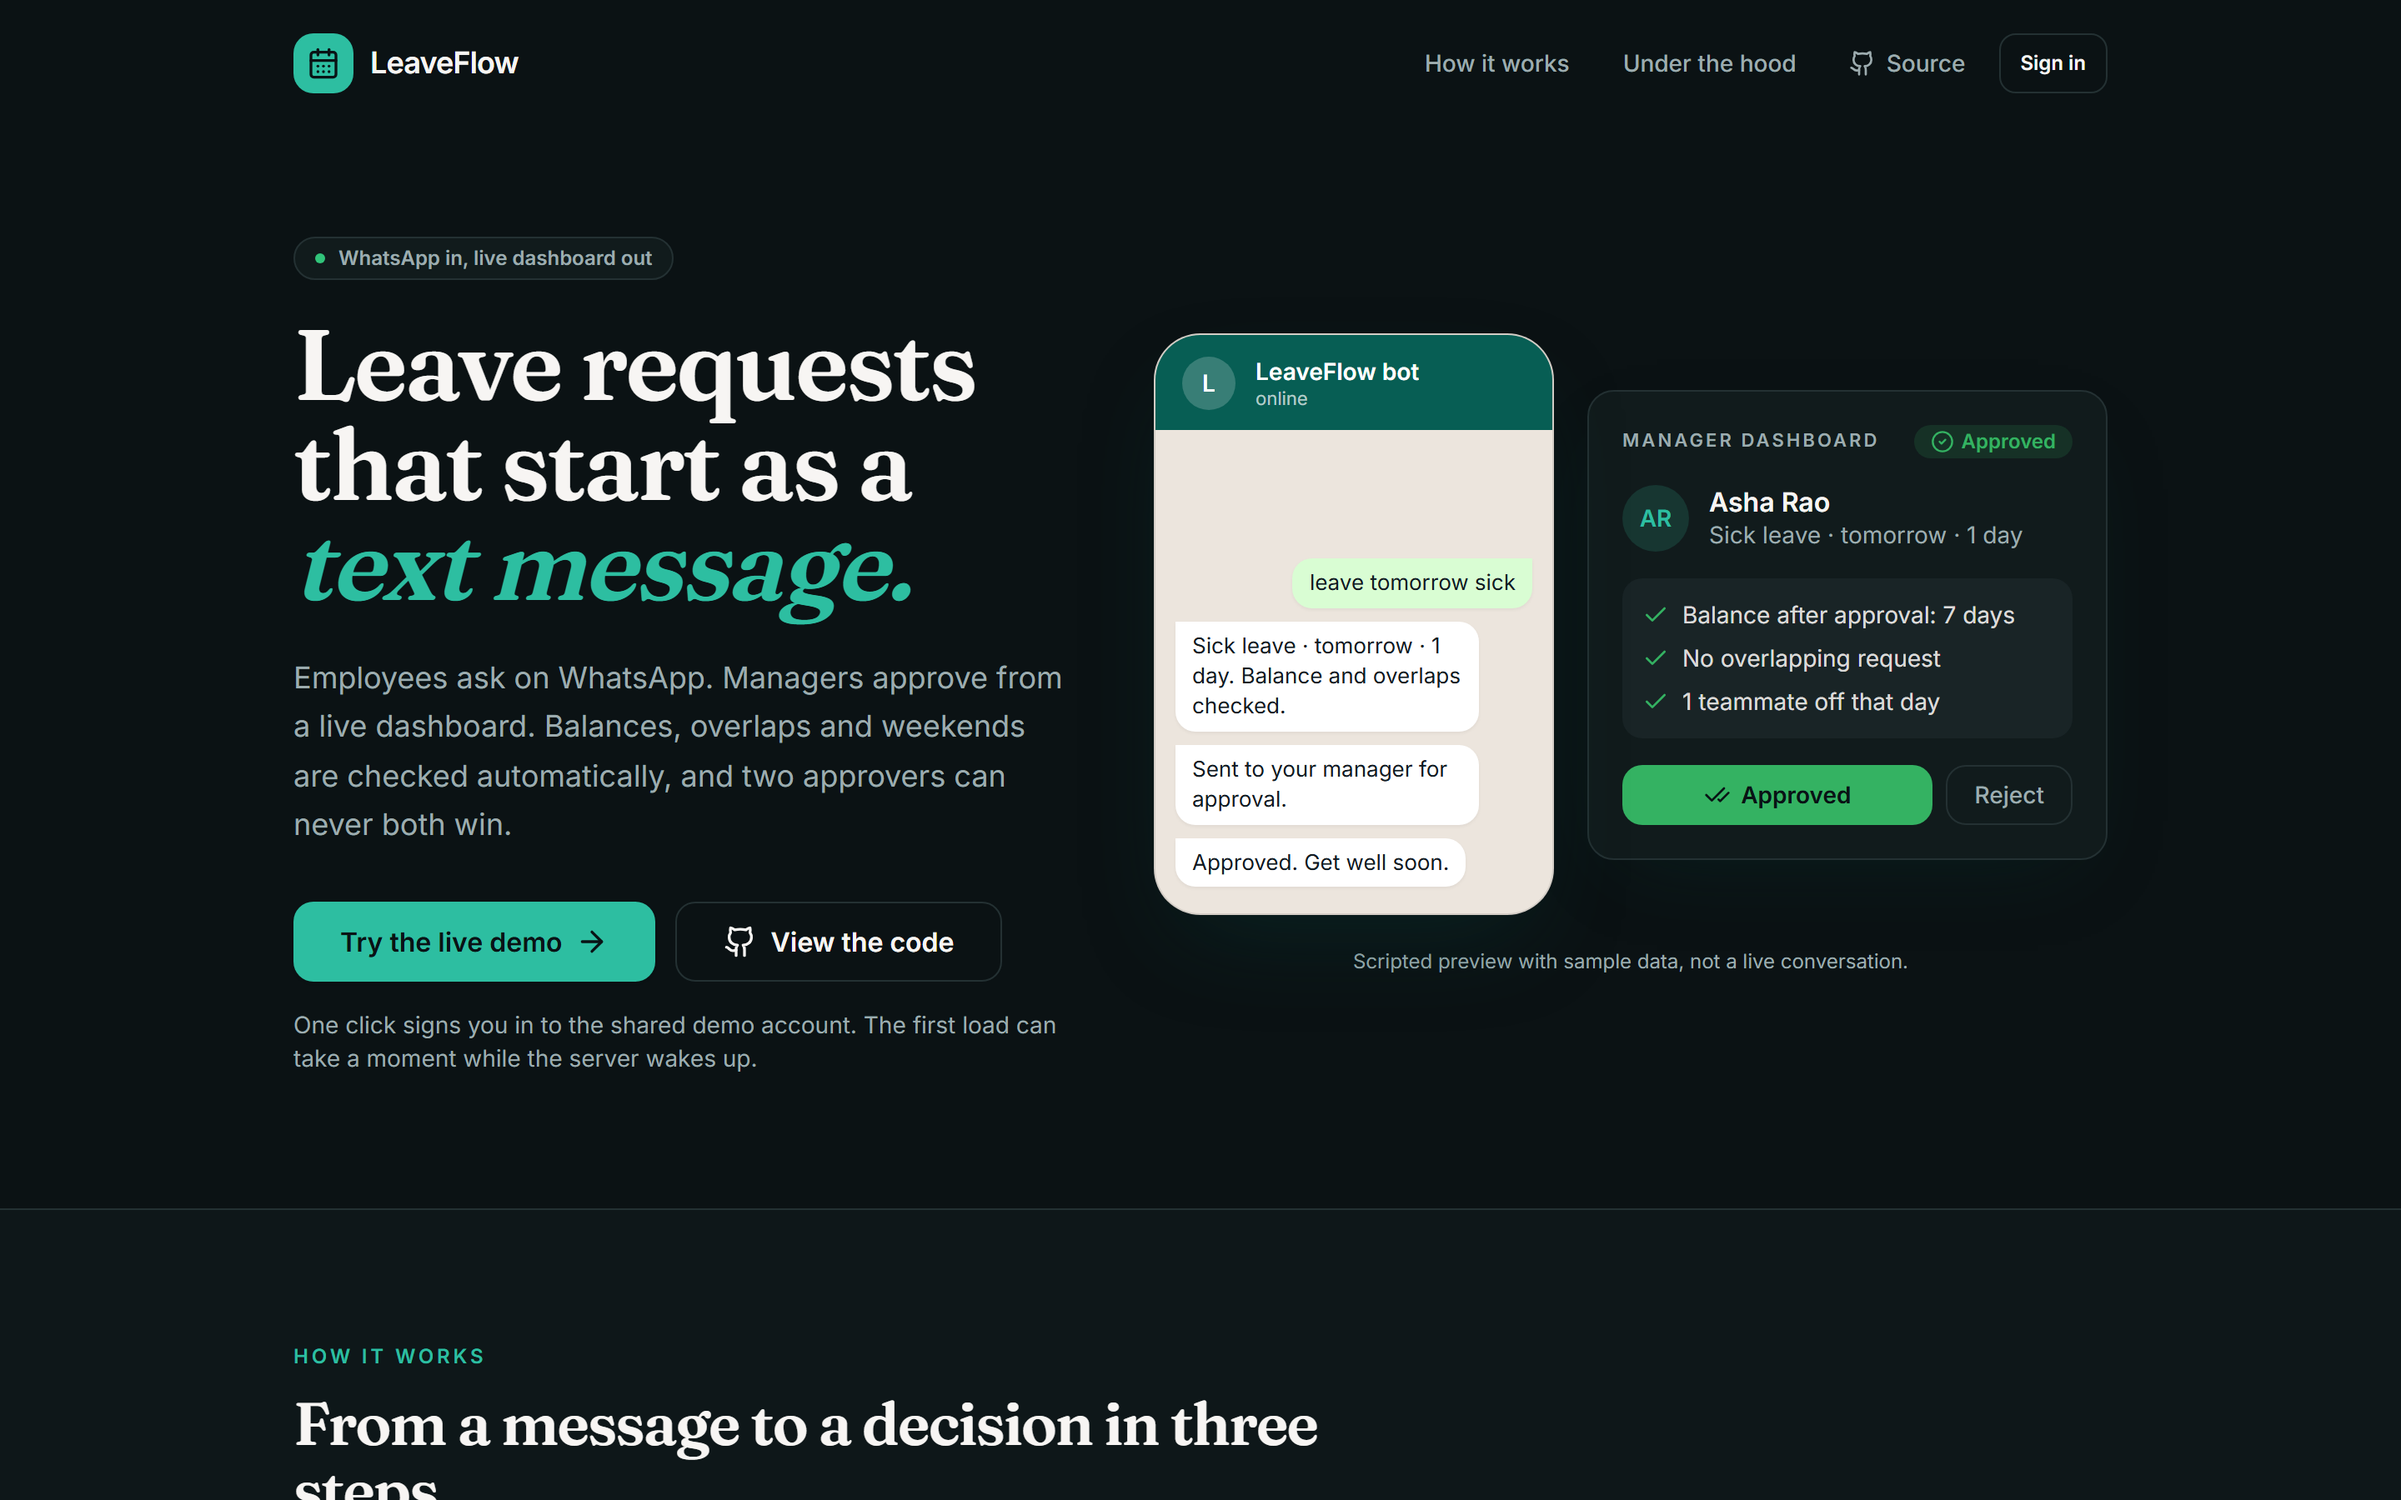
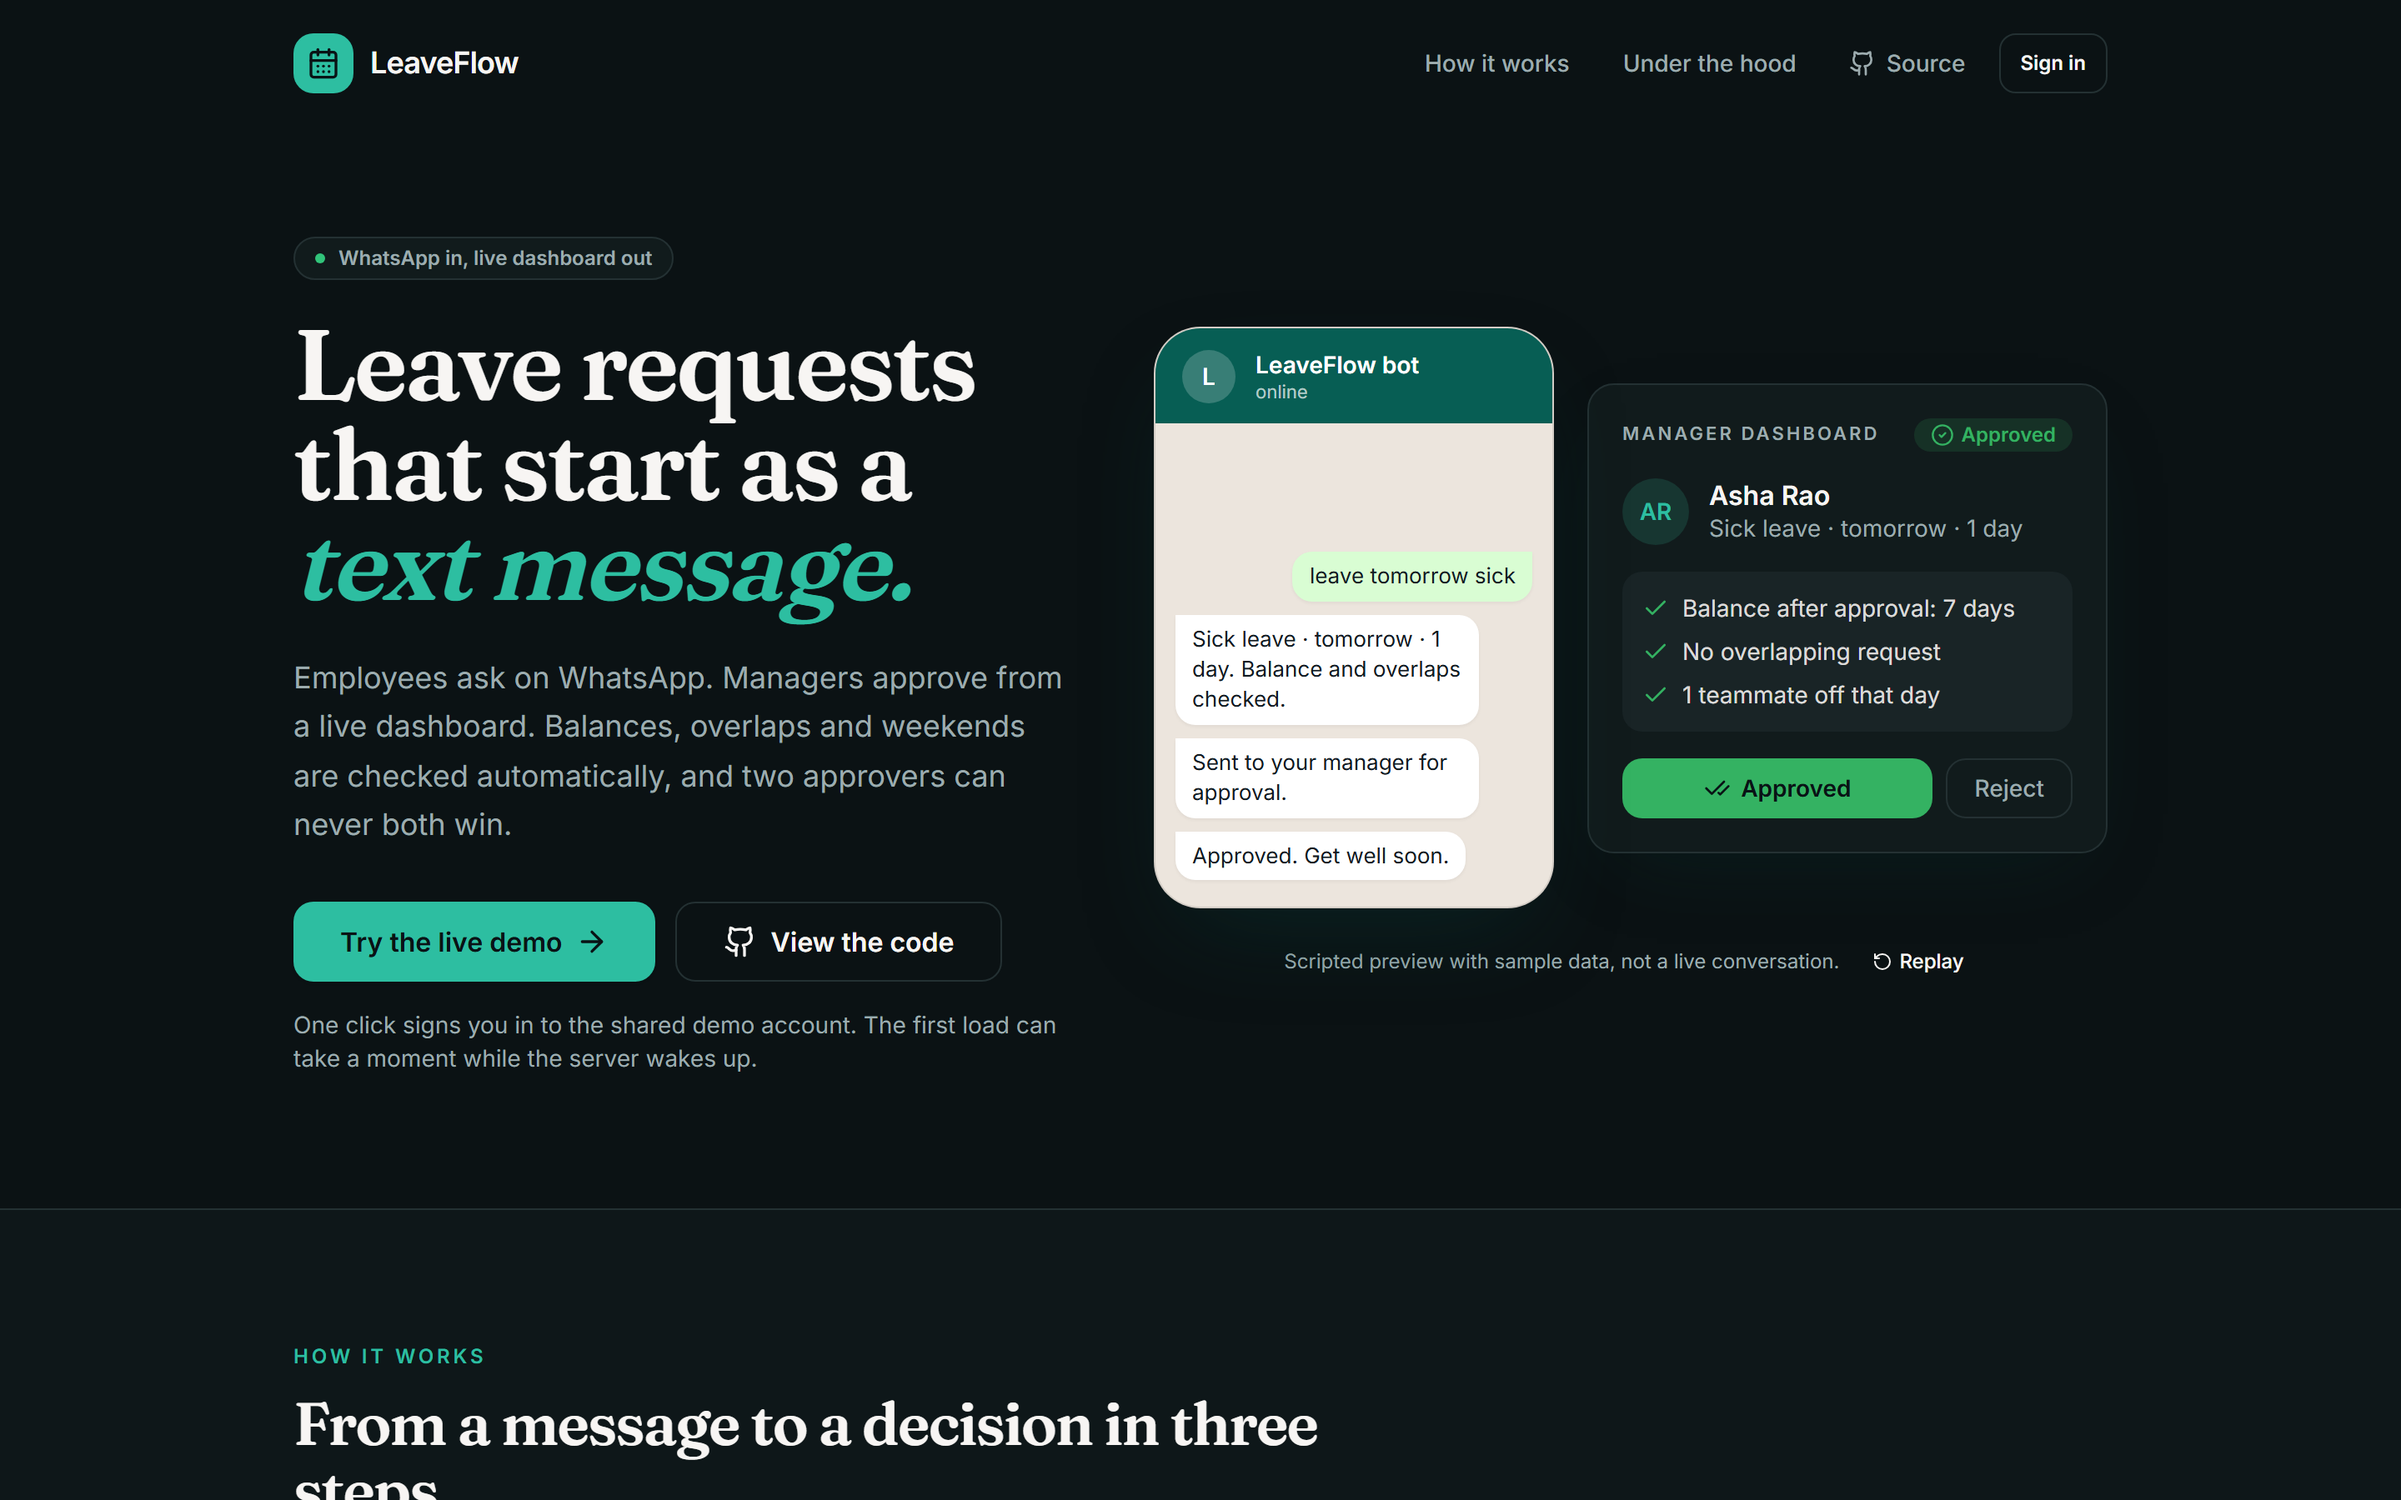
docs: README for the new UI, demo and tests; new screenshots

diff --git a/README.md b/README.md
@@ -13,19 +13,33 @@ Leave management where employees apply over WhatsApp ("leave tomorrow sick") and
 |---|---|
 | ![Landing page, light theme](docs/screenshots/landing-light.png) | ![Landing page, dark theme](docs/screenshots/landing-dark.png) |
 
-| Dashboard | Requests (dark) | Calendar |
+| Approval inbox (light) | Approval inbox (dark) |
+|---|---|
+| ![Approval inbox with checks, light theme](docs/screenshots/inbox-light.png) | ![Approval inbox with checks, dark theme](docs/screenshots/inbox-dark.png) |
+
+| Who's away | Dashboard | Mobile request sheet |
 |---|---|---|
-| ![Dashboard overview](docs/screenshots/dashboard-light.png) | ![Pending requests, dark theme](docs/screenshots/requests-dark.png) | ![Team leave calendar](docs/screenshots/calendar-light.png) |
+| ![Team timeline](docs/screenshots/timeline-light.png) | ![Dashboard overview](docs/screenshots/dashboard-light.png) | ![Request detail on a phone](docs/screenshots/inbox-mobile-detail.png) |
 
 The landing-page chat is a scripted animation, not a live conversation. The dashboard screenshots use the data from `backend/scripts/seed_demo.py`.
 
 ## Features
 
 - Apply, cancel, approve and reject leave through a WhatsApp bot (rule-based parser, optional LLM fallback).
-- Manager/HR dashboard with pending requests, history and a calendar view; status changes are pushed over WebSockets.
+- **Approval inbox** for managers, HR and admins: a queue plus a detail panel, with keyboard shortcuts (`J`/`K` move, `A` approve, `R` reject). A **Checks** panel shows the requester's remaining balance, which teammates are already off, and short notice. If someone else decides first, you get a clear "someone got there first" message.
+- **Who's away**: a people-by-day timeline of approved and pending leave, with holidays and weekends left out of leave days.
+- **Request history** per request (who created, approved or rejected it, and when), read from the audit log.
+- Live updates over WebSockets; the header shows whether the connection is actually up.
 - Validation: date range, weekends and holidays excluded, overlapping requests, balance check.
-- Roles: worker, manager, HR, admin. Managers can only act on their own team's requests.
+- Roles: worker, manager, HR, admin. Managers can only act on their own team's requests and balances.
 - Audit log entry for every create / approve / reject / cancel.
+- Light and dark themes. The landing page and the approval inbox are checked on a phone-sized screen.
+
+## Demo
+
+The sign-in page has a **Fill Demo Credentials** button for the shared demo account, and the landing page's **Try the live demo** link opens sign-in with those credentials already filled in.
+
+Inside the dashboard, the demo account sees **Restart demo** in the sidebar. It deletes the demo team's data (the fixed set of fake people from `backend/scripts/seed_demo.py` and their requests, balances and audit entries) and seeds it again, so the demo always starts from the beginning. It never touches anyone else's data. The same reset is available from the command line: `docker compose exec backend python scripts/seed_demo.py --reset`.
 
 ## Architecture
 
@@ -62,8 +76,9 @@ These are tested against real PostgreSQL in [tests/test_concurrency.py](backend/
 | Team-scoped approvals | A manager can only approve/reject requests of their own team; HR/admin can act on any | `_ensure_approver_access` in [leave.py](backend/app/services/leave.py) | `test_manager_cannot_approve_another_manager_team` |
 | Session auth | JWT in an HttpOnly cookie (`Secure` + `SameSite=None` in production); bearer header also accepted | [routes/auth.py](backend/app/routes/auth.py) | [test_api_routes.py](backend/tests/test_api_routes.py) (local cookie flags only) |
 | Webhook authenticity | HMAC-SHA256 check of `X-Hub-Signature-256` | `verify_whatsapp_signature` in [auth.py](backend/app/auth.py) | [test_access_control.py](backend/tests/test_access_control.py) |
-| Rate limiting | slowapi: login/register 5 per minute, webhook 20 per second (per IP) | [limiter.py](backend/app/limiter.py), [routes/](backend/app/routes) | none (disabled in the test client) |
-| Audit trail | `AuditLog` row for create/approve/reject/cancel | `_log_action` in [leave.py](backend/app/services/leave.py) | `test_concurrent_approvals_only_one_wins` |
+| Rate limiting | slowapi: login/register and demo reset 5 per minute, webhook 20 per second (per IP) | [limiter.py](backend/app/limiter.py), [routes/](backend/app/routes) | none (disabled in the test client) |
+| Audit trail | `AuditLog` row for create/approve/reject/cancel, readable per request at `GET /leave/{id}/audit` (same access rule as the request) | `_log_action` in [leave.py](backend/app/services/leave.py) | `test_concurrent_approvals_only_one_wins`, [test_audit_and_carry_forward.py](backend/tests/test_audit_and_carry_forward.py) |
+| Demo reset | `POST /demo/reset` only works for the demo account and only deletes the demo team's data; overlapping resets are serialized with a Postgres advisory lock | [routes/demo.py](backend/app/routes/demo.py), [demo_seed.py](backend/app/services/demo_seed.py) | [test_demo_reset.py](backend/tests/test_demo_reset.py), [test_demo_reset_postgres.py](backend/tests/test_demo_reset_postgres.py) |
 
 ## Run it
 
@@ -91,14 +106,24 @@ export TEST_POSTGRES_URL=postgresql+asyncpg://postgres:postgres@localhost:5432/l
 pytest tests/ -v --cov=app
 ```
 
-Last run: **65 tests passed** with PostgreSQL (59 passed and 6 skipped without it), **49% line coverage** of `backend/app`. CI runs the full set against a PostgreSQL service container and then builds both Docker images ([workflow](.github/workflows/ci.yml)). The dashboard has no automated tests.
+Last run: **83 tests passed** with PostgreSQL (75 passed and 8 skipped without it), **53% line coverage** of `backend/app`. CI runs the full set against a PostgreSQL service container and then builds both Docker images ([workflow](.github/workflows/ci.yml)).
+
+The dashboard has a small browser test suite ([Playwright](dashboard/e2e/demo.spec.ts): landing page, demo sign-in, inbox shortcuts, audit trail, timeline, restart). It needs the app running with demo data and **resets the demo data**, so it is not part of CI:
+
+```bash
+docker compose up --build -d db backend
+docker compose exec backend python scripts/seed_demo.py
+cd dashboard && npm ci && npm run build && npm start     # in one terminal
+npx playwright install chromium && npm run test:e2e        # in another
+```
 
 ## Known limitations
 
 - **No real users yet.** It has only been used by its author.
 - **No load-test results.** `locustfile.py` exists but still targets `/api/v1/...` routes that do not exist (the API serves `/auth`, `/leave`, `/users`), so it would only measure 404s. Do not quote performance numbers for this project.
-- **Public demo admin account.** Logging in as `demo@leaveflow.com` / `demo123` creates an admin user on any deployment that does not have one (used by the dashboard's "Use demo credentials" button). Do not run this with real data as-is.
+- **Public demo admin account.** Logging in as `demo@leaveflow.com` / `demo123` creates an admin user on any deployment that does not have one. Do not run this with real data as-is.
+- **The demo is shared.** Everyone who uses it sees and changes the same data, and one visitor's "Restart demo" resets it for everybody. Things a visitor creates outside the demo team (for example a new user) are not removed by a restart.
 - **Webhook signature check is optional.** It is skipped when `WHATSAPP_APP_SECRET` is not set.
-- **Leave requests can only be created through the WhatsApp webhook**; there is no HTTP endpoint for it.
-- **Duplicated balance columns** (`LeaveBalance` and `User.*_leave_balance`) are kept in step by the services, but the year-end `carry-forward` endpoint only updates `LeaveBalance`.
-- Test coverage is 49%; the WhatsApp message flow, AI service and most routes are lightly tested.
+- **Leave requests can only be created through the WhatsApp webhook**; there is no HTTP endpoint for it, so the dashboard cannot create requests.
+- **The dashboard is for managers, HR and admins.** Workers are signed out of it by design and use WhatsApp.
+- The browser tests are not run in CI. Test coverage is 53%; the WhatsApp message flow, AI service and many routes are lightly tested.
